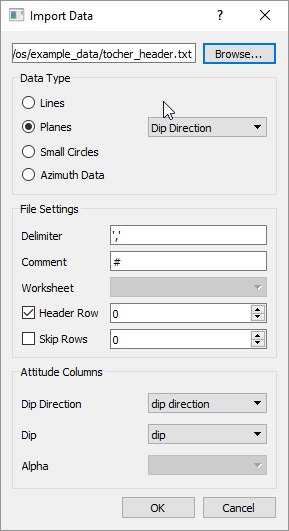
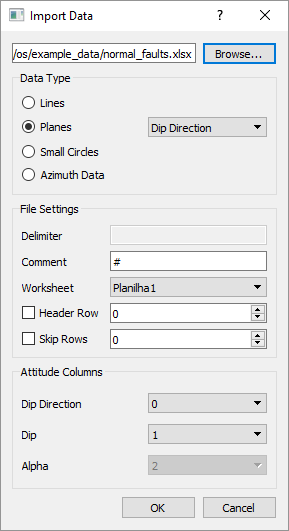
first draft of full tutorial

diff --git a/docs/tutorial.rst b/docs/tutorial.rst
@@ -23,7 +23,8 @@ example, ``Import Plane Data (DD)``:
 
 .. image:: images/os_file_import_plane.png
 
-Download ``tocher_header.csv`` from the `example data`_ directory inside the 
+OpenStereo supports both CSV files and excel spreadsheets. Download
+``tocher_header.csv`` from the `example data`_ directory inside the 
 repository and select it after clicking this option. After loading, either
 click ``Plot`` or press ``Ctrl+P`` on your keyboard to view the poles of this
 example:
@@ -31,6 +32,14 @@ example:
 .. _example data: https://github.com/endarthur/os/tree/master/example_data
 
 .. image:: images/os_tocher_poles.png
+
+The Projection plot is interactive. If you mouse over the plot the
+attitude of the point under the mouse will appear on the lower right corner.
+Also, if you click and drag over the plot you'll be able to both measure angles
+and see the attitude of the plane formed by the point you first clicked and the
+current point:
+
+.. image:: images/os_tocher_drag.png
 
 It is also possible to plot the great circles, eigenvectors and contours of
 a planar dataset. Click on the check boxes of these options under the
@@ -104,8 +113,77 @@ great circle legend as::
 
     fitted girdle ({data.eigenvectors_sphere[0]})
 
-In most cases you don't need to use the import dialog directly. Download and
-open the ``qplot.txt`` dataset using the ``Import Line Data (Trend)``.
+You can also open multiple data files of the same type. Download both
+``normal_faults.xlsx`` and ``qplot.txt`` from the example data and open them
+using the import planes action. Disable the Tocher item and plot the new data:
+
+.. image:: images/os_tocher_faults_qplot.png
+
+The normal_faults file contains both the orientation of a plane and a line on
+each row. As the data set contains no headers, it has no way of detecting which
+columns contain the attitude for the lines and the planes, so you must provide
+this information.
+
+The most generic way of opening a data set in OpenStereo is using the
+``Import...`` action on the file menu. After clicking this and selecting the
+normal_faults file the following dialog will appear:
+
+.. image:: images/os_import.png
+
+Change the data type to Lines, and the trend and plunge to columns 2 and 3,
+respectively. Click ``OK`` to load the lines, disable the other items and press
+plot to view the results:
+
+.. image:: images/os_faults_lines.png
+
+Our project now contains four items, and it's probably time for some better
+organization. Right click on any item and select ``Colapse All`` to hide the
+plot options. Rename the items by either using ``Rename...`` on the context
+menu or pressing F2 on your keyboard after selecting an item. After that, you
+may reorder the items by either clicking and dragging or using the move item
+actions on the menu. As an example of the results:
+
+.. image:: images/os_tocher_faults_qplot_reorder.png
+
+There are also some general configurations for the whole project, which can be
+found by either clicking on the ``Settings`` button under the plot or the 
+``Project Settings`` action on the settings menu. This dialog will appear:
+
+.. image:: images/os_settings.png
+
+Click on the ``Plot Grid`` checkbox to add an equal-area net on your plot. You
+may also rotate the whole projection by using the rotate grid option. For
+example, -30.0, 50.0 and 45.0 as azimuth, plunge and rake, respectively. Click
+``Apply`` to see the results:
+
+.. image:: images/os_faults_grid_rotate.png
+
+You can also see and add some metadata to your project on ``Project`` tab on
+the settings dialog:
+
+.. image:: images/os_settings_project.png
+
+There are two types of OpenStereo :ref:`project files <project-files>`: regular
+and packed. They both use the .openstereo extension, and the main difference is
+that packed projects include the data files inside them, to facilitate sharing
+projects. Packed projects may be unpacked to a directory using the
+``Unpack to...`` button on the project tab of the settings dialog.
+
+To finish this tutorial, save the resulting project as a regular one (using
+either ``Save``  or ``Save as...`` on the file menu). Regular projects store
+the relative paths between the .openstereo file and the data files, so you
+can transport the whole project to different computers by just keeping the
+same directory structure, as when sharing a folder through Dropbox or a similar
+service.
+
+If OpenStereo can't find the data when opening the project, it will ask you for
+its location. To make this process easier, for each location of these you
+provide the software will try to find the remaining files relative to both the
+project file and these given locations.
+
+..
+    In most cases you don't need to use the import dialog directly. Download and
+    open the ``qplot.txt`` dataset using the ``Import Line Data (Trend)``.
 
 ..
     .. image:: images/os_import.png
